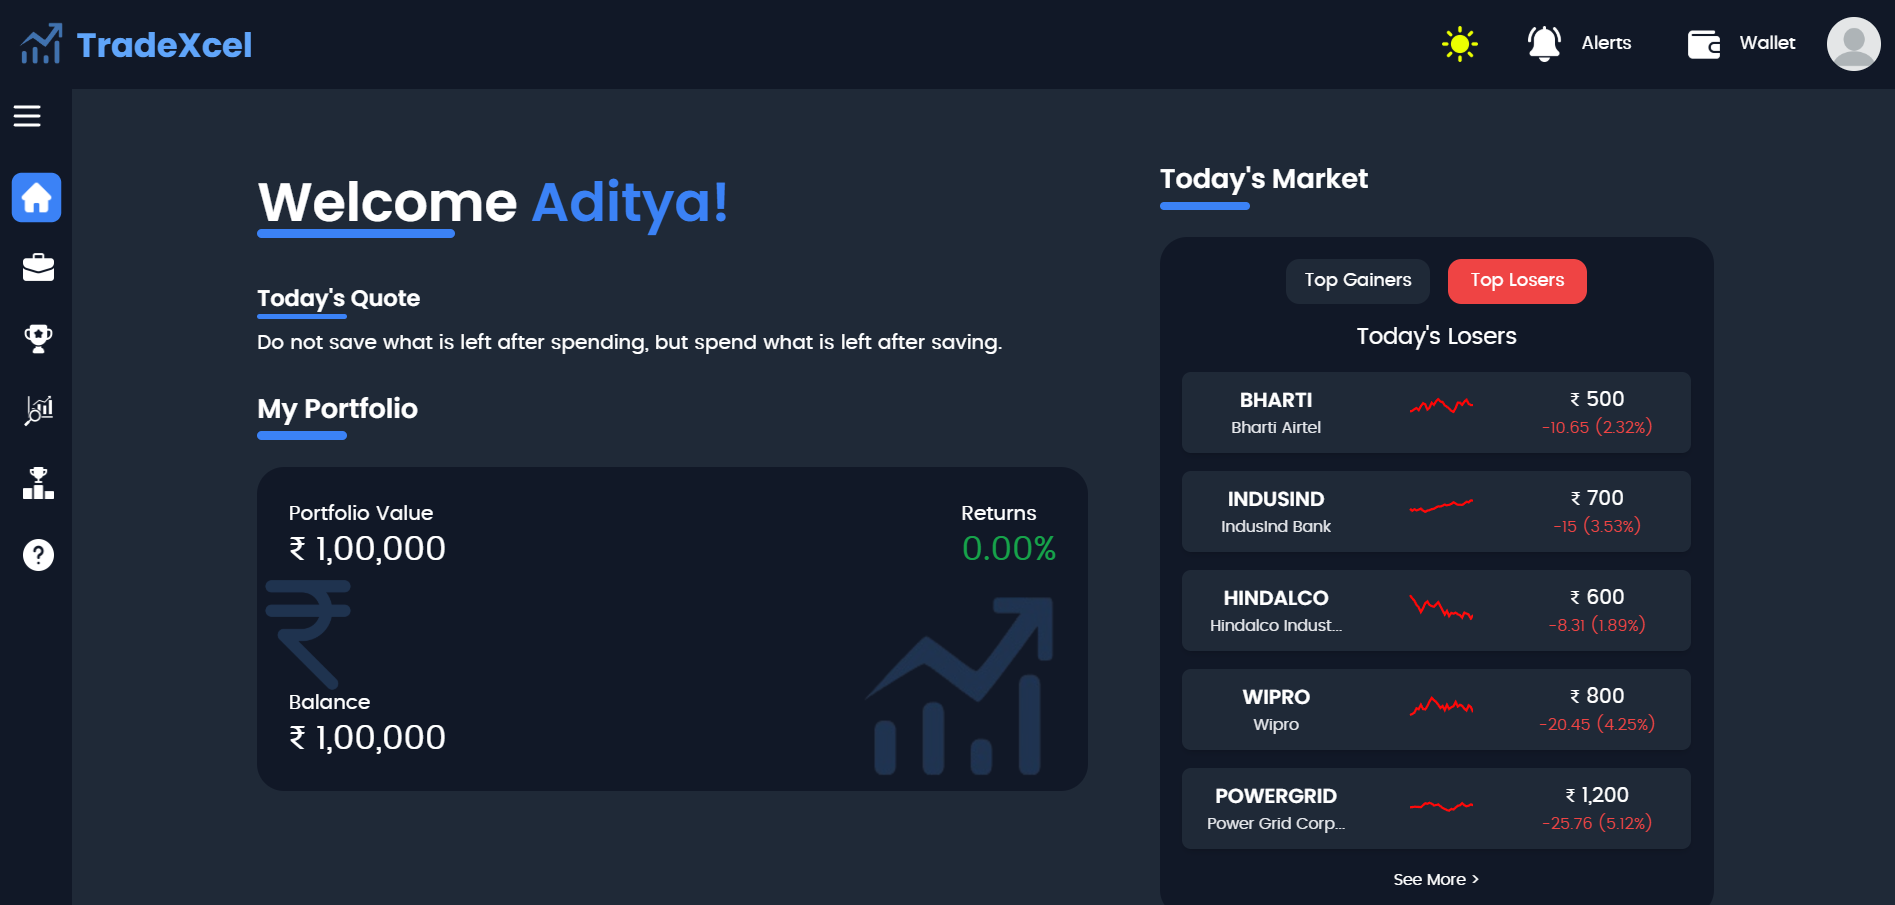
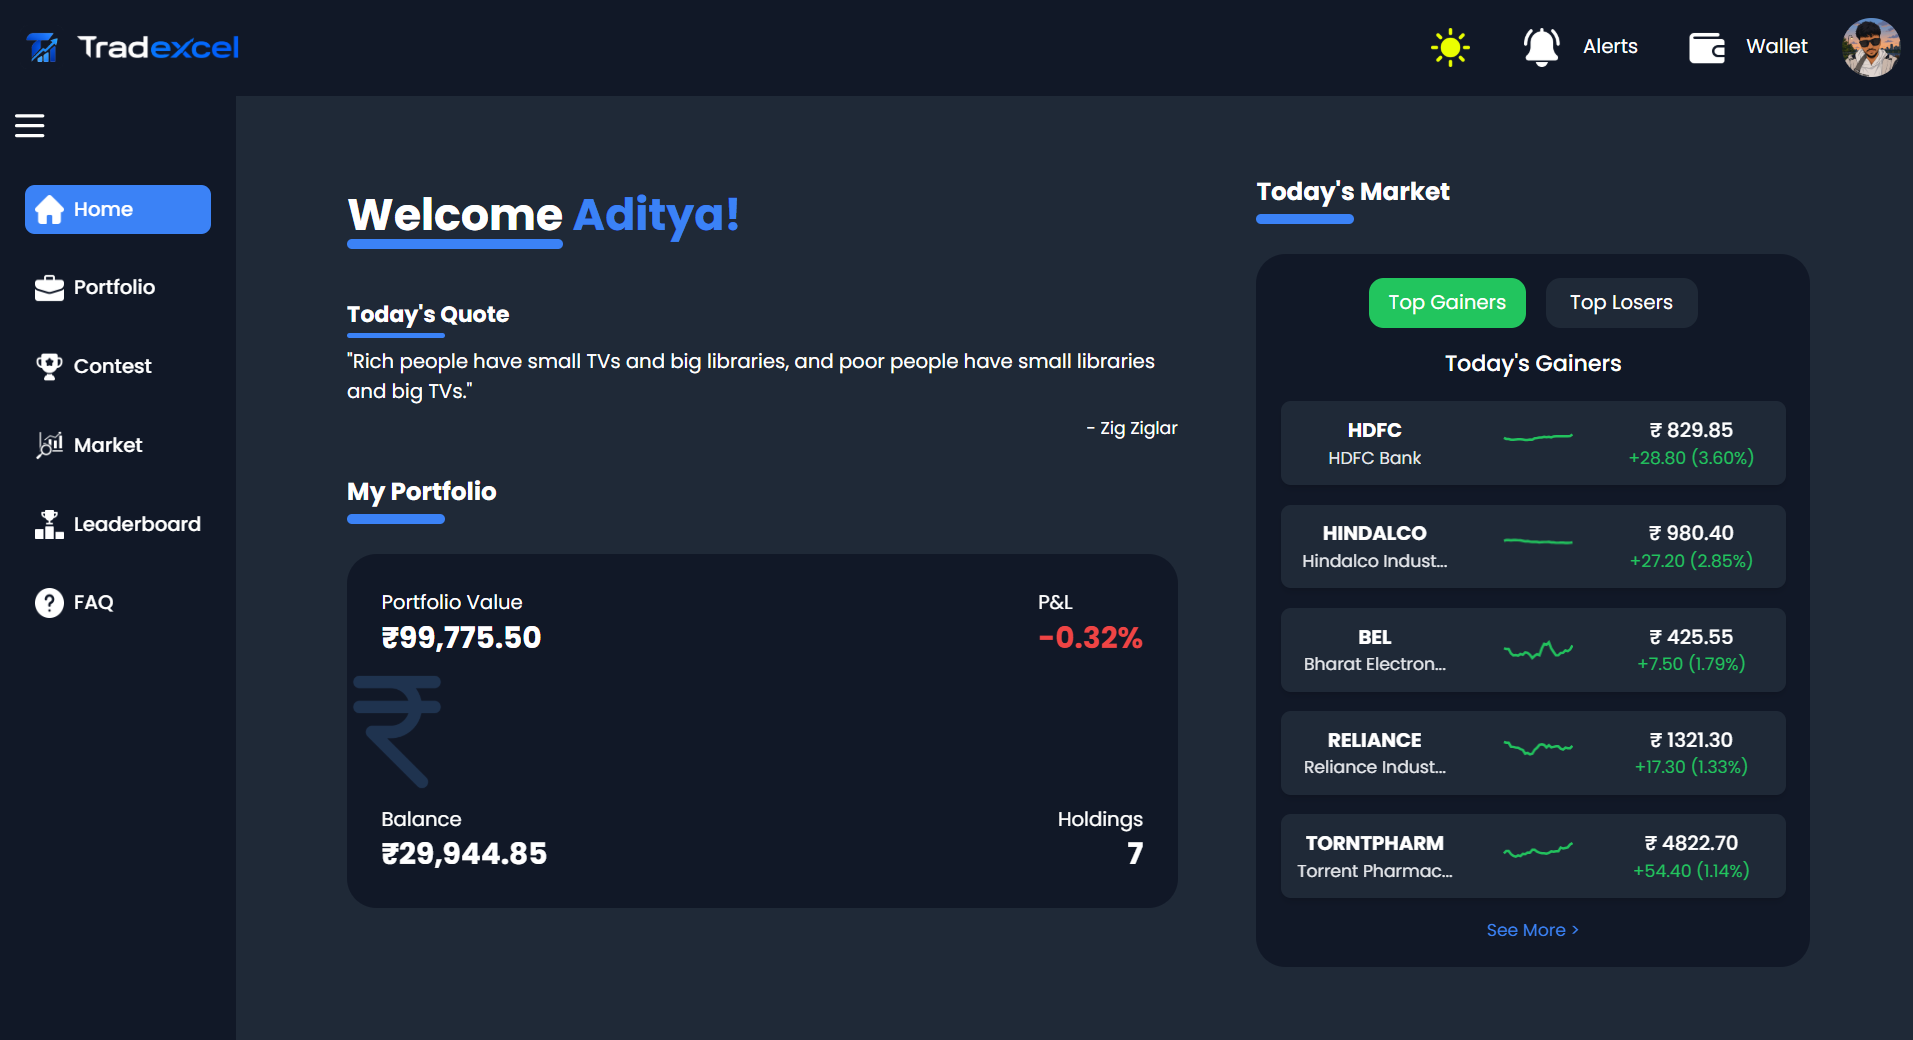
hero section update

diff --git a/apps/frontend/src/components/landingPage/Home.tsx b/apps/frontend/src/components/landingPage/Home.tsx
@@ -92,7 +92,7 @@ function Home() {
           animate={{ opacity: 1, x: 0 }}
           transition={{ duration: 0.8 }}
         >
-          <div className="hidden sm:block relative w-full aspect-[1895/905]">
+          <div className="hidden sm:block relative w-full aspect-[3/2]">
             <img
               src={((dashboard)?.src || (dashboard)) as string}
               alt="Dashboard dark mode"